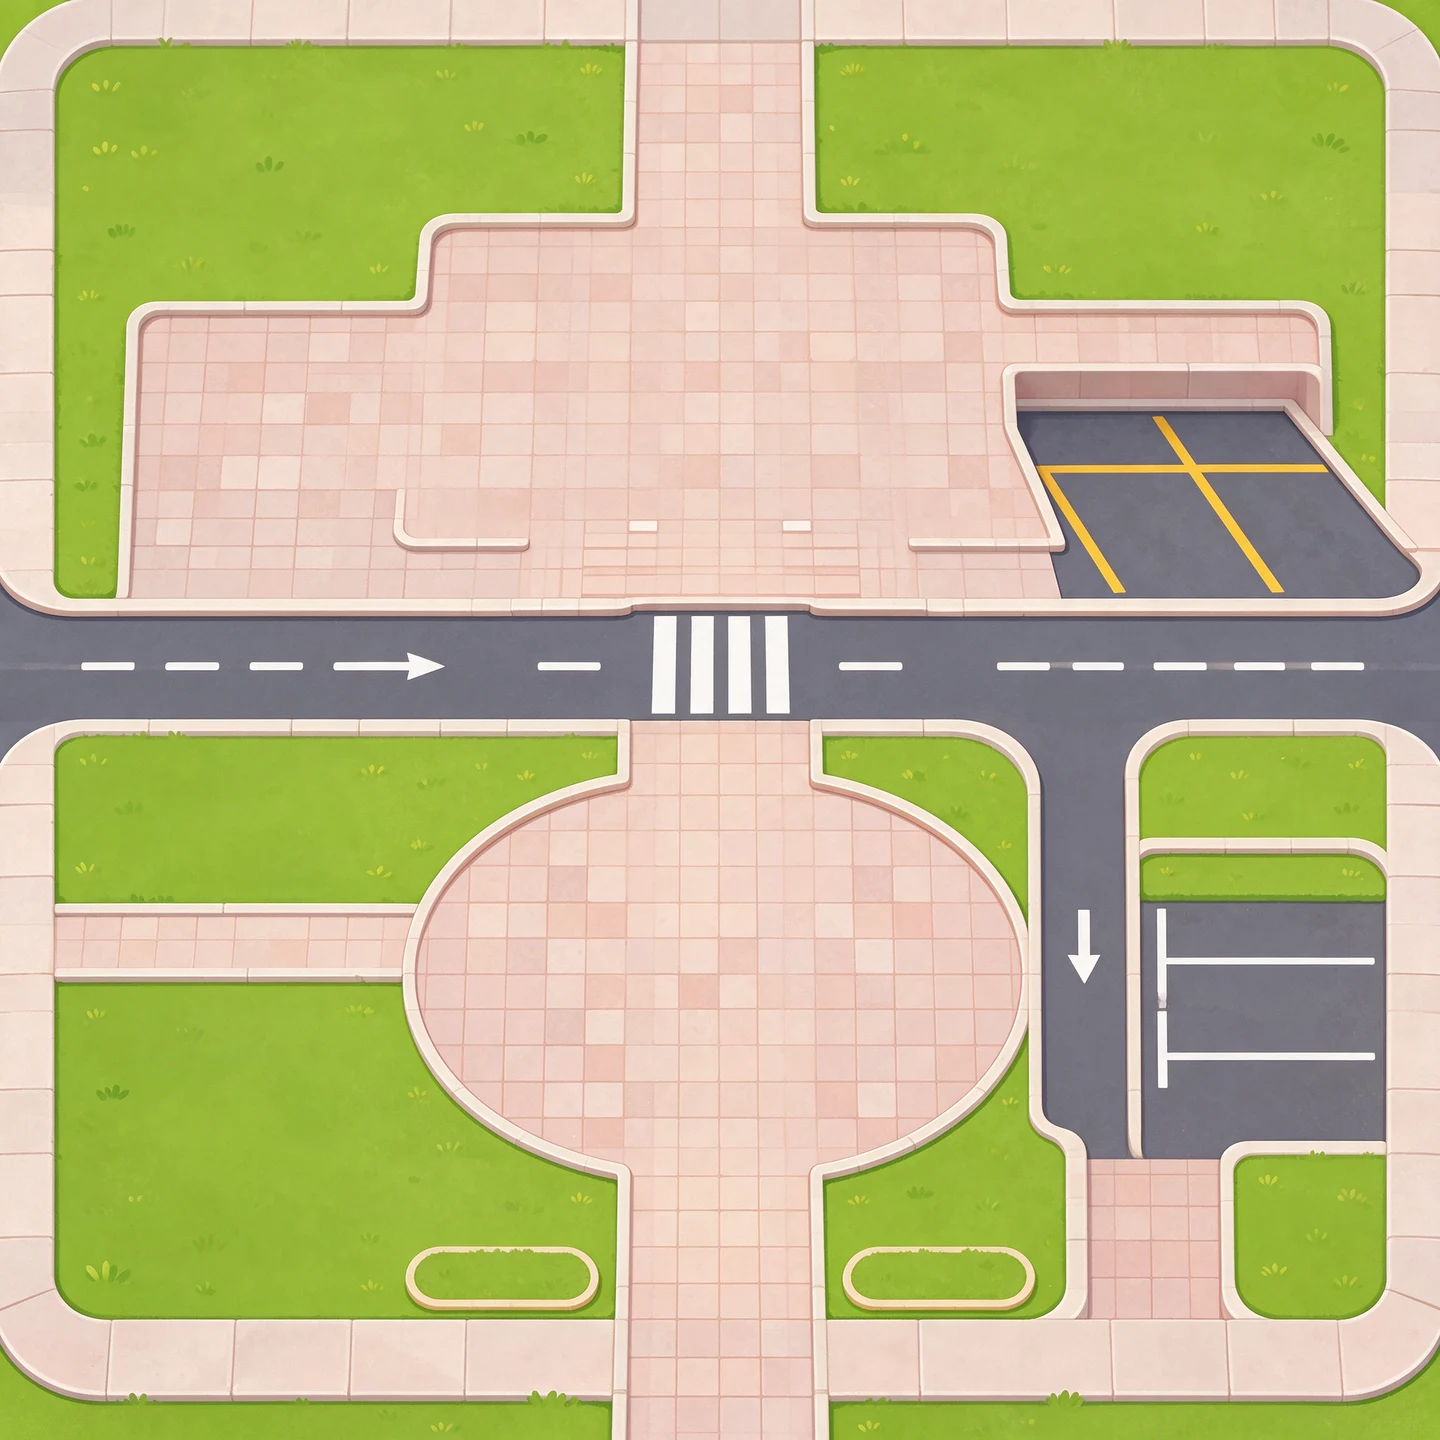
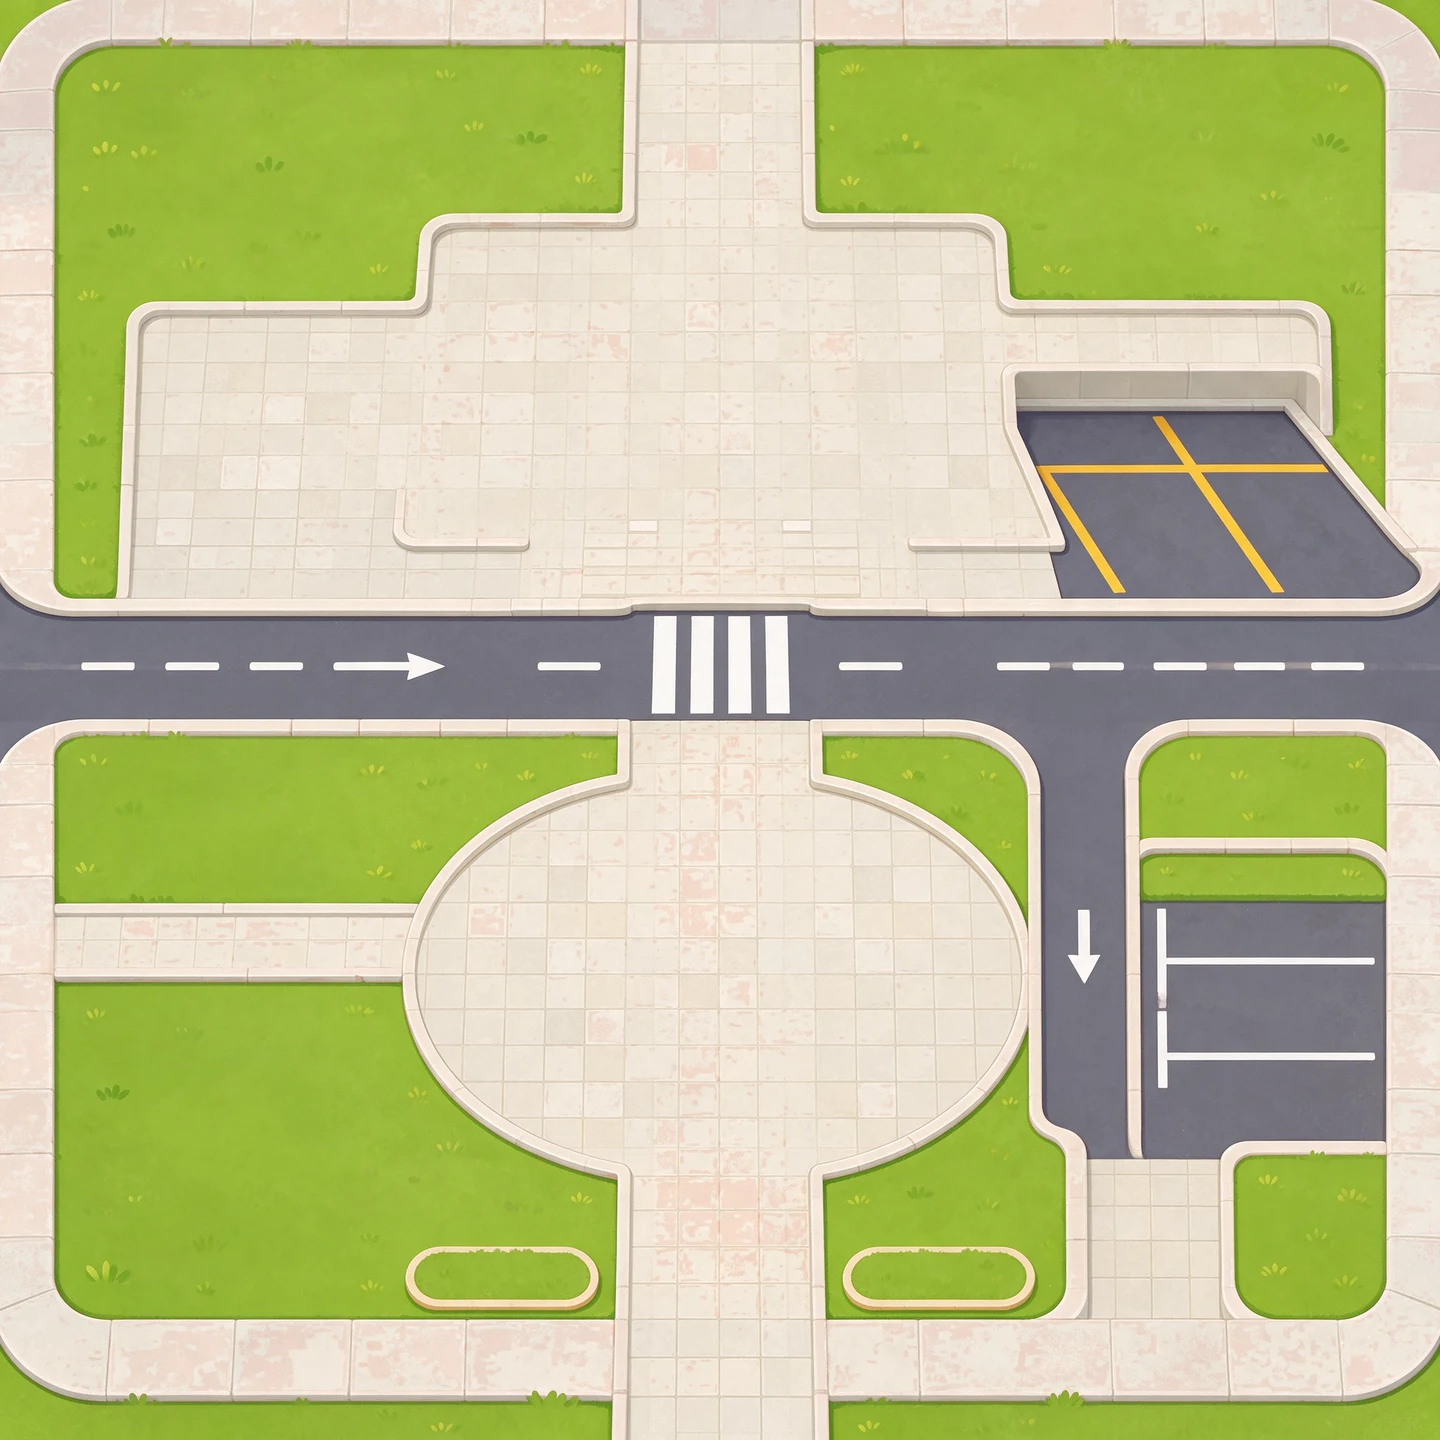
Подложки Пошта и Автобекет: бежевая плитка вместо розовой
Claude-Session: https://claude.ai/code/session_018akPrywKgYRcJbbAFRjdMf

diff --git a/tools/editor/index.html b/tools/editor/index.html
@@ -136,7 +136,7 @@ function onPath(x,y,pad,skip,all){pad=pad||0;for(var i=0;i<paths.length;i++){var
 function cleanPaths(a){return (Array.isArray(a)?a:[]).filter(function(p){return p&&COL[p.st]&&(p.ell||(Array.isArray(p.pts)&&p.pts.length))})}
 var world=document.getElementById('world'),stage=document.getElementById('stage');
 function ground(){var g='',road='#7f858c';
- g+='<rect width="832" height="832" fill="'+road+'"/><rect x="'+O+'" y="'+O+'" width="'+B+'" height="'+B+'" fill="#99bc65" stroke="#c9c2b0" stroke-width="5"/>'+(GROUND&&GROUND!=='grass'?'<rect x="'+(O+3)+'" y="'+(O+3)+'" width="'+(B-6)+'" height="'+(B-6)+'" fill="'+fillOf(GROUND)+'"/>':'');if(BGIMG)g+='<image href="'+BGIMG+'?v=3" x="'+O+'" y="'+O+'" width="'+B+'" height="'+B+'" preserveAspectRatio="none"/>';
+ g+='<rect width="832" height="832" fill="'+road+'"/><rect x="'+O+'" y="'+O+'" width="'+B+'" height="'+B+'" fill="#99bc65" stroke="#c9c2b0" stroke-width="5"/>'+(GROUND&&GROUND!=='grass'?'<rect x="'+(O+3)+'" y="'+(O+3)+'" width="'+(B-6)+'" height="'+(B-6)+'" fill="'+fillOf(GROUND)+'"/>':'');if(BGIMG)g+='<image href="'+BGIMG+'?v=4" x="'+O+'" y="'+O+'" width="'+B+'" height="'+B+'" preserveAspectRatio="none"/>';
  for(var x=0;x<W;x+=40){g+='<line x1="'+x+'" y1="28" x2="'+(x+20)+'" y2="28" stroke="#fff" stroke-width="3"/><line x1="'+x+'" y1="804" x2="'+(x+20)+'" y2="804" stroke="#fff" stroke-width="3"/><line x1="28" y1="'+x+'" x2="28" y2="'+(x+20)+'" stroke="#fff" stroke-width="3"/><line x1="804" y1="'+x+'" x2="804" y2="'+(x+20)+'" stroke="#fff" stroke-width="3"/>'}
  var bb=cur&&blk(cur);if(bb&&(bb.r===1||bb.r===2)){var y0=bb.r===1?776:0;g+=railSVG(0,y0,W,56)}
  document.getElementById('base').innerHTML=g}
@@ -154,7 +154,7 @@ function bad(it){if(!it.t||it.b>O+B+4||it.w<80)return false;if(it.n==='fount'||i
 function zi(it){return Math.round(it.b+(it.z||0))+2000}
 function render(){var s='',min=40/sc;
  items.forEach(function(it,i){var h=it.w*(ASP[it.n]||1),bw=Math.max(it.w,min),bh=Math.max(h,min);
-  s+='<div class="it'+(i===sel&&mode==='move'?' sel':'')+(bad(it)?' bad':'')+'" data-i="'+i+'" style="left:'+(it.x-bw/2)+'px;top:'+(it.b-bh)+'px;width:'+bw+'px;height:'+bh+'px;z-index:'+zi(it)+'"><img src="art/'+it.n+'.webp?v=3" style="width:'+it.w+'px;height:'+h+'px;'+(it.f?'transform:scaleX(-1)':'')+'"></div>'});
+  s+='<div class="it'+(i===sel&&mode==='move'?' sel':'')+(bad(it)?' bad':'')+'" data-i="'+i+'" style="left:'+(it.x-bw/2)+'px;top:'+(it.b-bh)+'px;width:'+bw+'px;height:'+bh+'px;z-index:'+zi(it)+'"><img src="art/'+it.n+'.webp?v=4" style="width:'+it.w+'px;height:'+h+'px;'+(it.f?'transform:scaleX(-1)':'')+'"></div>'});
  world.querySelectorAll('.it').forEach(function(e){e.remove()});world.insertAdjacentHTML('beforeend',s);
  var on=sel>=0;['bSm','bBg','bFl','bDup','bDel','bL','bU','bD','bR','bFw','bBk','bRs','bRp'].forEach(function(id){document.getElementById(id).disabled=!on});document.getElementById('bUn').disabled=!hist.length;if(on&&items[sel]&&items[sel].t)document.getElementById('bDel').disabled=true;
  var nb=items.filter(bad).length;if(mode==='pan'){document.getElementById('hint').textContent='Ведите пальцем — двигается карта. Постройки не трогаются';return}if(replacing&&sel>=0&&mode==='move'){document.getElementById('hint').textContent='Выберите в ленте «Добавить», на что заменить';var _on=true;['bSm','bBg','bFl','bDel','bL','bU','bD','bR','bFw','bBk','bRs','bRp'].forEach(function(id){document.getElementById(id).disabled=false});return}if(mode!=='move'){document.getElementById('hint').textContent=mode==='draw'?(hpend?'Нажмите, куда передвинуть конец':mpend?'Нажмите, куда переставить дорожку':(psel>=0?'Тяните дорожку или кружок на конце. Нажмите на дорожку — потом на место':'Ведите пальцем — дорожка ложится. Нажмите на дорожку, чтобы править')):'Проведите по дорожке — она исчезнет';document.getElementById('pUn').disabled=!hist.length;return}document.getElementById('hint').textContent=nb?('Красным — стоит на дорожке ('+nb+')'):(on?(items[sel]&&items[sel].t?'Постройка из урока: двигать можно, удалять нельзя. Нажмите на газон — переедет':'Нажмите на газон — объект переедет туда'):'Нажмите на постройку (выделится синим), потом тяните её или нажмите на место')}
@@ -270,7 +270,7 @@ var pal=document.getElementById('pal');var pcat=document.getElementById('pcat');
 function fillPal(){pal.innerHTML='';var list=CURCAT==='all'?PAL:(PCAT.filter(function(c){return c[0]===CURCAT})[0]||[0,0,0,[]])[3];list.forEach(addPal)}
 (function(){var h='<button data-c="all" class="on">Все</button>';PCAT.forEach(function(c){h+='<button data-c="'+c[0]+'" title="'+c[2]+'">'+c[1]+' '+c[2]+'</button>'});pcat.innerHTML=h;
  pcat.querySelectorAll('button').forEach(function(bt){bt.onclick=function(){CURCAT=bt.dataset.c;pcat.querySelectorAll('button').forEach(function(x){x.classList.toggle('on',x===bt)});fillPal()}})})();
-function addPal(n){var d=document.createElement('div');d.innerHTML='<img src="art/'+n+'.webp?v=3">';d.onclick=function(){if(replacing&&sel>=0&&items[sel]){snap();var it=items[sel];it.n=n;it.w=PALW[n]||it.w;it.f=0;replacing=false;document.getElementById('bRp').classList.remove('on');render();save();document.getElementById('stage').scrollIntoView({behavior:'smooth',block:'center'});return}snap();items.push({n:n,x:CX+(Math.random()*120-60),b:CY+150,w:PALW[n]||80,f:0});items[items.length-1].x=Math.round(items[items.length-1].x);sel=items.length-1;render();save()};pal.appendChild(d)}
+function addPal(n){var d=document.createElement('div');d.innerHTML='<img src="art/'+n+'.webp?v=4">';d.onclick=function(){if(replacing&&sel>=0&&items[sel]){snap();var it=items[sel];it.n=n;it.w=PALW[n]||it.w;it.f=0;replacing=false;document.getElementById('bRp').classList.remove('on');render();save();document.getElementById('stage').scrollIntoView({behavior:'smooth',block:'center'});return}snap();items.push({n:n,x:CX+(Math.random()*120-60),b:CY+150,w:PALW[n]||80,f:0});items[items.length-1].x=Math.round(items[items.length-1].x);sel=items.length-1;render();save()};pal.appendChild(d)}
 fillPal();
 ground();
 function loadLocal(id){try{var ls=localStorage.getItem(keyOf(id));var _l=ls?JSON.parse(ls):null;var it=_l?clean(Array.isArray(_l)?_l:_l.items):[];if(!it.length)it=blkInit(id);var pa=(_l&&!Array.isArray(_l)&&Array.isArray(_l.paths))?cleanPaths(_l.paths):defPaths();if(id==='aina')markAina(it);return {items:it,paths:pa,ground:(_l&&_l.ground)||'grass'}}catch(e){var a=blkInit(id);if(id==='aina')markAina(a);return {items:a,paths:defPaths()}}}
@@ -282,9 +282,9 @@ function openBlock(id){cur=id;ground();if(stT){clearTimeout(stT);}cur=id;var b=b
  try{localStorage.setItem('tilashar-editor-cur',id)}catch(e){}
  fromDb(id,function(v){if(cur!==id||drag||stroke||hdrag||bdrag)return;items=JSON.parse(JSON.stringify(v.items));paths=JSON.parse(JSON.stringify(v.paths));GROUND=v.ground||'grass';BGIMG=v.bg||BGDEF[id]||'';ground();sel=-1;hist=[];drawPaths();render();setSt('Загружено ✓')})}
 function tileHTML(b,v,L,T,S){var k=S/832,h='<div class="tile" data-b="'+b.id+'" style="left:'+L+'px;top:'+T+'px;width:'+S+'px;height:'+S+'px"><div class="tw" style="transform:scale('+k+')">';
- h+='<svg width="832" height="832" style="position:absolute;left:0;top:0"><rect width="832" height="832" fill="#7f858c"/><rect x="'+O+'" y="'+O+'" width="'+B+'" height="'+B+'" fill="'+(b.id==='spare'?'#c5dca6':'#99bc65')+'"/>'+(v.ground&&v.ground!=='grass'?'<rect x="'+O+'" y="'+O+'" width="'+B+'" height="'+B+'" fill="'+fillOf(v.ground)+'"/>':'')+((v.bg||BGDEF[b.id])?'<image href="'+(v.bg||BGDEF[b.id])+'?v=3" x="'+O+'" y="'+O+'" width="'+B+'" height="'+B+'" preserveAspectRatio="none"/>':'')+'<g clip-path="url(#blk)">';
+ h+='<svg width="832" height="832" style="position:absolute;left:0;top:0"><rect width="832" height="832" fill="#7f858c"/><rect x="'+O+'" y="'+O+'" width="'+B+'" height="'+B+'" fill="'+(b.id==='spare'?'#c5dca6':'#99bc65')+'"/>'+(v.ground&&v.ground!=='grass'?'<rect x="'+O+'" y="'+O+'" width="'+B+'" height="'+B+'" fill="'+fillOf(v.ground)+'"/>':'')+((v.bg||BGDEF[b.id])?'<image href="'+(v.bg||BGDEF[b.id])+'?v=4" x="'+O+'" y="'+O+'" width="'+B+'" height="'+B+'" preserveAspectRatio="none"/>':'')+'<g clip-path="url(#blk)">';
  (v.paths||[]).forEach(function(p){h+=pathSVG(p)});h+='</g></svg>';
- (v.items||[]).slice().sort(function(a,c){return zi(a)-zi(c)}).forEach(function(it){var hh=it.w*(ASP[it.n]||1);h+='<img src="art/'+it.n+'.webp?v=3" style="left:'+(it.x-it.w/2)+'px;top:'+(it.b-hh)+'px;width:'+it.w+'px;height:'+hh+'px;'+(it.f?'transform:scaleX(-1)':'')+'">'});
+ (v.items||[]).slice().sort(function(a,c){return zi(a)-zi(c)}).forEach(function(it){var hh=it.w*(ASP[it.n]||1);h+='<img src="art/'+it.n+'.webp?v=4" style="left:'+(it.x-it.w/2)+'px;top:'+(it.b-hh)+'px;width:'+it.w+'px;height:'+hh+'px;'+(it.f?'transform:scaleX(-1)':'')+'">'});
  return h+'</div><div class="tl">'+b.th+' '+b.nm+'</div></div>'}
 function showCity(){if(cur&&items.length){save()}document.getElementById('edView').classList.add('hide');document.getElementById('cityView').classList.remove('hide');document.getElementById('bname').textContent='Весь город';
  var g=document.getElementById('cityGrid'),W0=g.clientWidth,gap=Math.max(6,W0*0.02),riv=Math.max(10,W0*0.035),S=(W0-gap*5-riv)/4;
